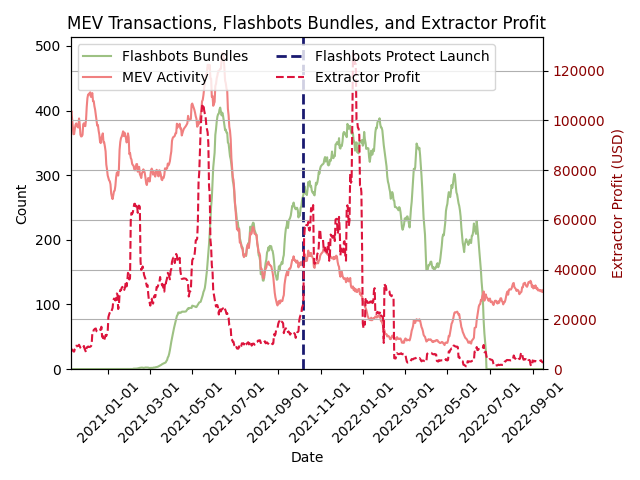
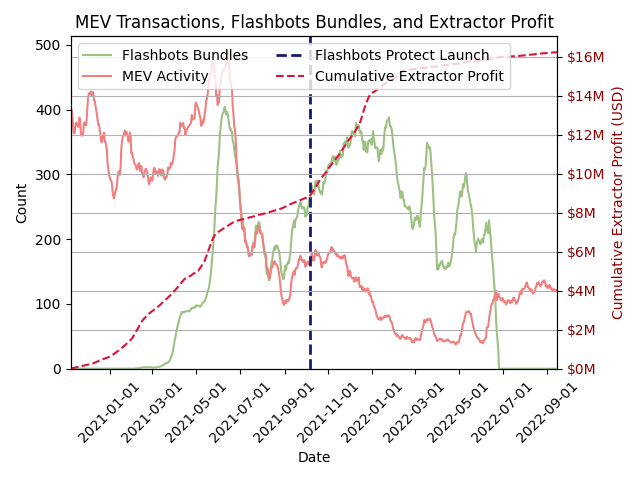
update plot to cumulative

diff --git a/section_5/5.2_pre_merge/5.2.2_FB_and_mev/profit_mev_fb.py b/section_5/5.2_pre_merge/5.2.2_FB_and_mev/profit_mev_fb.py
@@ -53,11 +53,11 @@ def plot_data_double_axis(data, filepath):
 
     # Setting up the right y-axis for cumulative profit
     ax2 = ax1.twinx()
-    ax2.set_ylabel('Extractor Profit (USD)', color='darkred')
-    ax2.plot(data['block_date'], data['total_extractor_profit_without_swaps'], linestyle='--', color='#DC143C', label='Extractor Profit') #crimson
+    ax2.set_ylabel('Cumulative Extractor Profit (USD)', color='darkred')
+    ax2.plot(data['block_date'], data['cumulative_profit'], linestyle='--', color='#DC143C', label='Cumulative Extractor Profit') #crimson
     ax2.tick_params(axis='y', labelcolor='darkred')
 
-    # ax2.yaxis.set_major_formatter(FuncFormatter(millions_formatter))
+    ax2.yaxis.set_major_formatter(FuncFormatter(millions_formatter))
 
     plt.setp(ax1.get_xticklabels(), rotation=45, ha="center")
     plt.setp(ax2.get_xticklabels(), rotation=45, ha="center")
